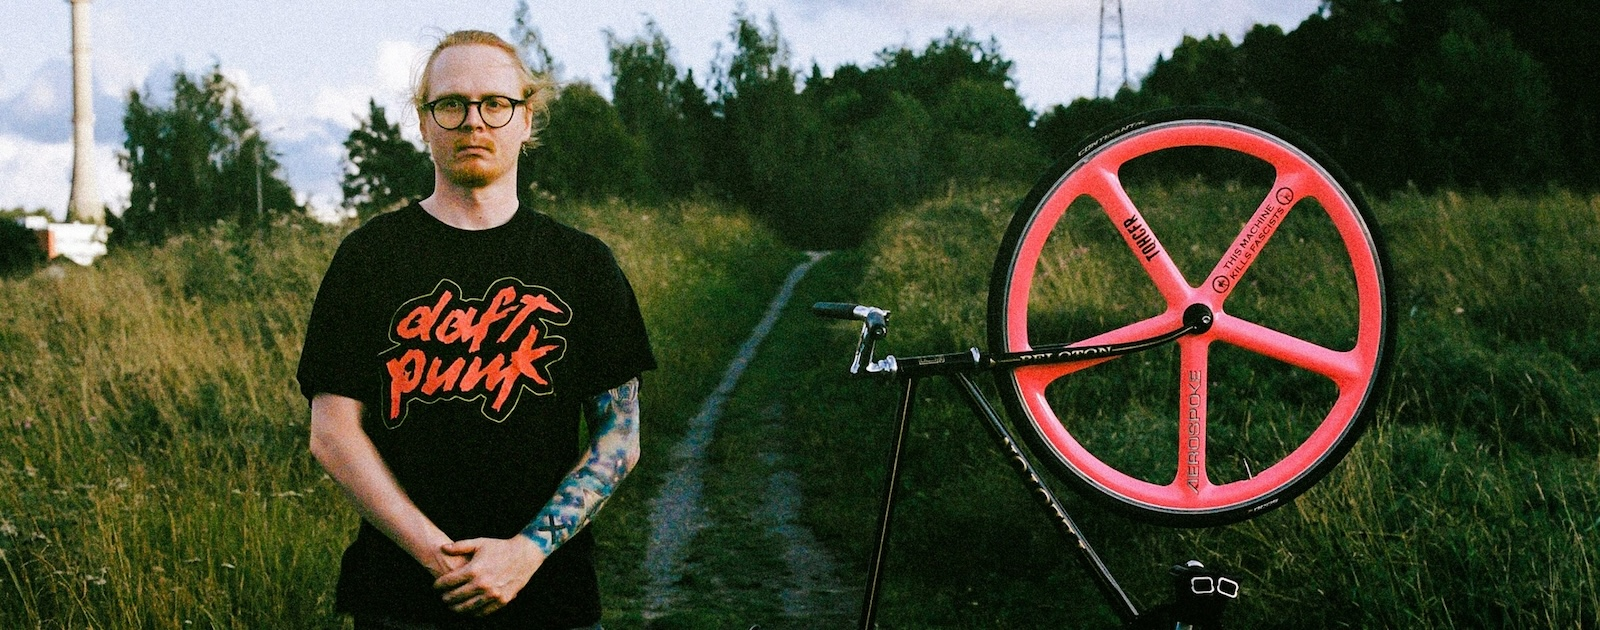
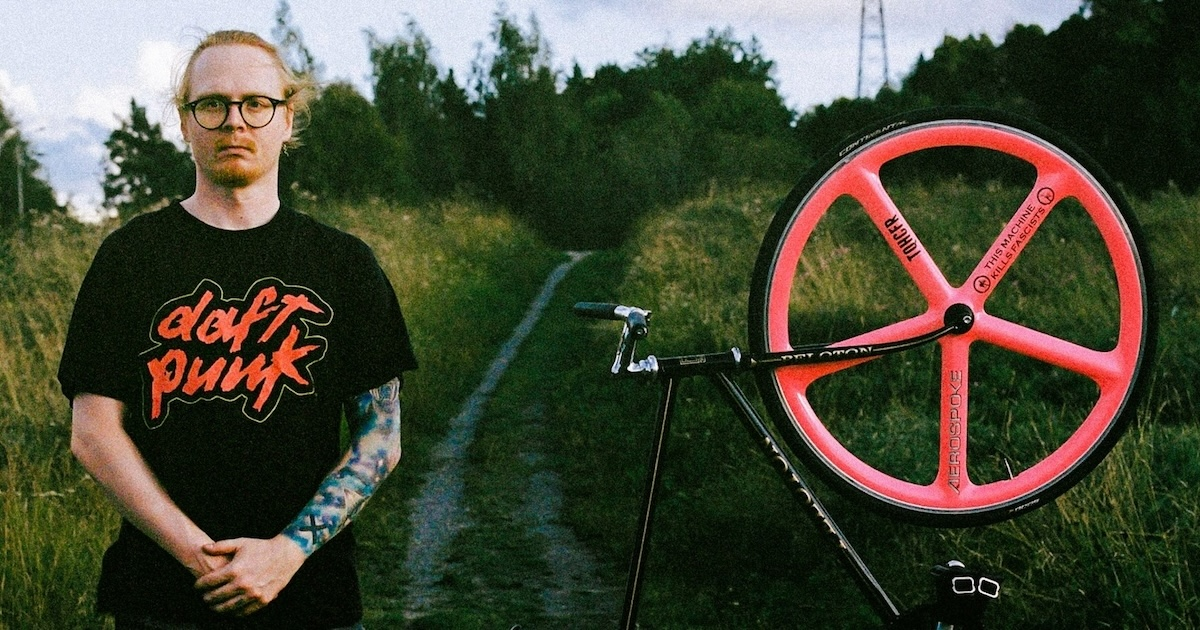
OG image resize

diff --git a/public/cv.html b/public/cv.html
@@ -3,25 +3,33 @@
   <head>
     <meta charset="UTF-8" />
     <meta name="viewport" content="width=device-width, initial-scale=1.0" />
-    <meta property="og:title" content="Leevi Ossi - Fullstack kehittäjä 4 vuoden työkokemuksella." />
-    <meta property="og:image" content="/og_image.jpeg" />
+
+    <title>Leevi Ossi CV</title>
+    <meta
+      name="description"
+      content="Leevi Ossi - Fullstack kehittäjä 4 vuoden työkokemuksella."
+    />
+    <meta
+      property="og:title"
+      content="Leevi Ossi - Fullstack kehittäjä 4 vuoden työkokemuksella."
+    />
     <meta
       property="og:description"
       content="Turkulainen tee-se-itse -tyyppi ja polkupyöräfanaatikko. Rakastan luovaa ajattelua ja ongelmanratkaisua. Tässä on CV:ni."
     />
     <meta property="og:url" content="https://www.leeviossi.com" />
+    <meta property="og:image" content="/og_image.jpeg" />
     <meta property="og:type" content="website" />
-    <title>Leevi Ossi CV</title>
-    <link rel="stylesheet" href="styles/cv.css" />
-    <link
-      rel="stylesheet"
-      href="https://cdn.jsdelivr.net/npm/@tabler/icons-webfont@latest/dist/tabler-icons.min.css"
-    />
 
     <link rel="apple-touch-icon" sizes="180x180" href="apple-touch-icon.png" />
     <link rel="icon" type="image/png" sizes="32x32" href="favicon-32x32.png" />
     <link rel="icon" type="image/png" sizes="16x16" href="favicon-16x16.png" />
     <link rel="manifest" href="site.webmanifest" />
+    <link rel="stylesheet" href="styles/cv.css" />
+    <link
+      rel="stylesheet"
+      href="https://cdn.jsdelivr.net/npm/@tabler/icons-webfont@latest/dist/tabler-icons.min.css"
+    />
   </head>
   <body>
     <main id="cv">

diff --git a/index.html b/index.html
@@ -3,15 +3,23 @@
   <head>
     <meta charset="UTF-8" />
     <meta name="viewport" content="width=device-width, initial-scale=1.0" />
-    <meta property="og:title" content="Heya! I'm Leevi Ossi - Welcome to my personal website!" />
-    <meta property="og:image" content="/og_image.jpeg" />
+
+    <title>Leevi Ossi</title>
+    <meta
+      name="description"
+      content="A passionate software developer with a love for creating and making things. When I'm not coding, you can find me tinkering with and riding bikes."
+    />
+    <meta
+      property="og:title"
+      content="Heya! I'm Leevi Ossi - Welcome to my personal website!"
+    />
     <meta
       property="og:description"
       content="A passionate software developer with a love for creating and making things. When I'm not coding, you can find me tinkering with and riding bikes."
     />
     <meta property="og:url" content="https://www.leeviossi.com" />
+    <meta property="og:image" content="/og_image.jpeg" />
     <meta property="og:type" content="website" />
-    <title>Leevi Ossi</title>
 
     <link rel="icon" type="image/png" href="/favicon.ico" />
     <link rel="apple-touch-icon" sizes="180x180" href="apple-touch-icon.png" />
